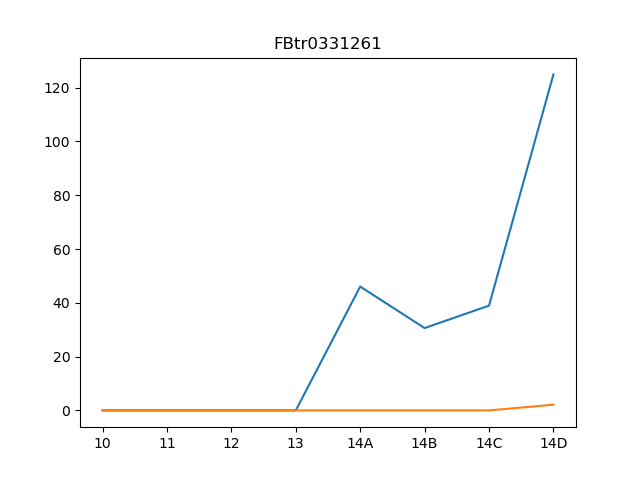
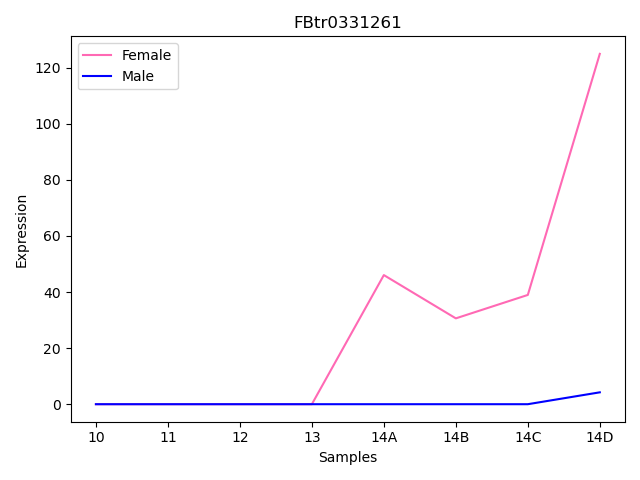
Annotations to the image: title, ax.labels, colors, legend

diff --git a/day2-homework/plot-sxl.py b/day2-homework/plot-sxl.py
@@ -50,8 +50,13 @@ x = [10, 11, 12, 13, "14A", "14B", "14C", "14D"]
 # Plot data
 fig, ax = plt.subplots()
 ax.set_title( "FBtr0331261" )
-ax.plot( x, yf, label= "Female")
-ax.plot(x, ym, label = "Male")
+ax.plot( x, yf, label= "Female", c ="hotpink")
+ax.plot(x, ym2, label = "Male", c = "blue")
+ax.set_ylabel("Expression")
+ax.set_xlabel("Samples")
+ax.legend()
+plt.tight_layout()
+ax.set_title("FBtr0331261")
 fig.savefig( "FBtr0331261.png" )
 plt.xticks(rotation = 90)
 plt.show()
